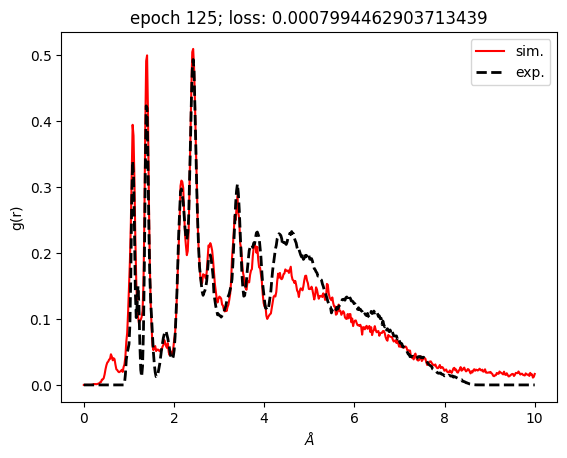
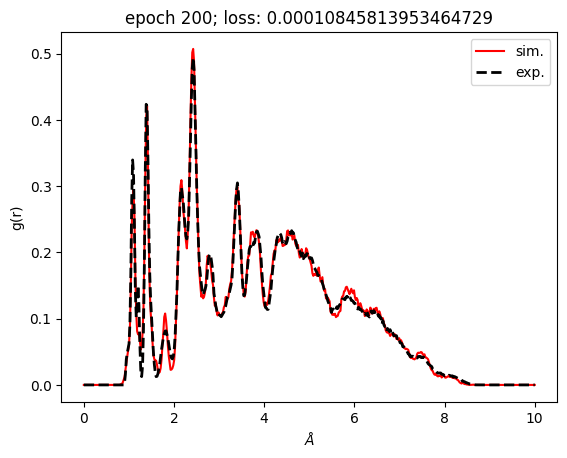
Fixed RDF, finished before editing and cleaning up

diff --git a/scripts/run_md17.py b/scripts/run_md17.py
@@ -37,7 +37,22 @@ def plot_rdfs(bins, target_g, simulated_g, fname, path, tau, rdf_title, loss=-1)
     plt.xlabel("$\AA$")
     plt.ylabel("g(r)")
     # plt.ylim(0 , .6)
-    plt.savefig(path + rdf_title, bbox_inches='tight')
+    plt.savefig(path + '/' + rdf_title, bbox_inches='tight')
+    plt.show()
+    plt.close()
+def plot_rdfs2(bins, target_g, simulated_g, imp_gt, imp_sim, fname, path, tau, rdf_title, loss=-1):
+    
+    # plt.plot(bins, simulated_g.detach().cpu().numpy(), c='red', label='sim.' )
+    # plt.plot(bins, target_g, linewidth=2,linestyle='--', c='black', label='exp.')
+    imp_loss = (imp_gt - imp_sim).pow(2).mean()
+    plt.plot(bins, imp_gt.detach().cpu().numpy(), label='imp gt')
+    plt.plot(bins, imp_sim.detach().cpu().numpy(), label= 'imp sim' )
+    plt.title(f'loss: {loss}, imp_loss: {imp_loss} ')
+    plt.legend()
+    plt.xlabel("$\AA$")
+    plt.ylabel("g(r)")
+    # plt.ylim(0 , .6)
+    plt.savefig(path + '/' + rdf_title, bbox_inches='tight')
     plt.show()
     plt.close()
 
@@ -60,6 +75,7 @@ def find_hr_from_file(molecule: str, size: str, n_bins, start, end):
     gt_traj = torch.FloatTensor(gt_data.f.R)
     gt_atomicnums = torch.FloatTensor(gt_data.f.z)
     hist_gt = get_hr(gt_traj, bins)
+    hist_gt = 100*hist_gt/ hist_gt.sum()
     return hist_gt
     # compute h(r) for simulated trajectory
 
@@ -67,6 +83,7 @@ def find_hr_from_file(molecule: str, size: str, n_bins, start, end):
 def load_schnet_model(path = None, ckpt_epoch = -1, num_interactions = None, device = "cpu", from_pretrained=True):
     
     cname = 'best_checkpoint.pt' if ckpt_epoch == -1 else f"checkpoint{ckpt_epoch}.pt"
+
     ckpt_and_config_path = os.path.join(path, "checkpoints", cname)
     schnet_config = torch.load(ckpt_and_config_path, map_location=torch.device("cpu"))["config"]
     if num_interactions: #manual override
@@ -127,7 +144,7 @@ def fit_rdf(suggestion_id, device, project_name):
     n_epochs = 1000  # number of epochs to train for
     cutoff = 15 # cutoff for interatomic distances (I don't think this is used)
     nbins = 500 # bins for the rdf histogram
-    tau = 100 # this is the number of timesteps, idk why it's called tau
+    tau = 300 # this is the number of timesteps, idk why it's called tau
     start = 1e-6 # start of rdf range
     end = 10 # end of rdf range
     lr_initial = .001 # learning rate passed to optim
@@ -141,7 +158,8 @@ def fit_rdf(suggestion_id, device, project_name):
     rdf_skip = 10
     checkpoint_epoch = 10
     # rdf_title = f'/replicas_ch{checkpoint_epoch}/rdf_plot_{num_replicas}replicas_{tau}t'
-    rdf_title = 'tester'
+    rdf_title = f'tester'
+    reset_each_epoch = True
 
 
     atoms_arr = [data_to_atoms(init_data) for init_data in init_data_arr]
@@ -219,12 +237,20 @@ def fit_rdf(suggestion_id, device, project_name):
 
     # Convert `g_obs` to a PyTorch tensor and move it to the same device as `g`
     g_obs_tensor = torch.from_numpy(g_obs).to(device)
+    implicit_gt_obs = torch.load('implicit_obs')
+    implicit_sim_obs = torch.load('implicit_sim')
+    print("DIFFERENCE:", (g_obs_tensor - implicit_gt_obs).pow(2).sum())
     
     print("Training for {} epochs".format(n_epochs))
     for i in range(0, n_epochs):
         current_time = datetime.now() 
-        
-        trajs = sim.simulate(steps=tau, frequency=int(tau), dt = dt)
+        if reset_each_epoch:
+            data = [train_dataset.__getitem__(i) for i in samples]
+            [system.set_positions(data[i].pos.cpu().detach().numpy()) for i,  system in enumerate(systems_arr)] 
+
+
+            
+        trajs = sim.simulate(steps=tau, frequency=int(tau), dt = dt, restart=reset_each_epoch, normal=True)
         # download_ovito(trajs, dt, bonds, atom_types_list, typeid, ovito_config)
         # ovito_config.close()
         v_t, q_t, pv_t = trajs
@@ -237,16 +263,18 @@ def fit_rdf(suggestion_id, device, project_name):
         # Now, let's average over all the rows for g (in the 99 dimension)
         g = q_t_obs.mean(dim=0)
 
-        g = g * .5
+
         loss = (g - g_obs_tensor).pow(2).mean()
         print("LOSS: ", loss.item())
         if  i % 25 == 0:
-           plot_rdfs(xnew, g_obs, g, i, model_path, tau, rdf_title, loss=loss.item())
+        #    plot_rdfs(xnew, g_obs, g, i, model_path, tau, rdf_title, loss=loss.item())
+           plot_rdfs2(xnew, g_obs, g, implicit_gt_obs, implicit_sim_obs, i, model_path, tau, rdf_title, loss=loss.item())
 
         # Calculate the loss
         
-    
-        loss.backward()
+        pdb.set_trace()
+        results = loss.backward()
+        
         duration = (datetime.now() - current_time)
         
         optimizer.step()
@@ -322,4 +350,4 @@ def download_ovito(trajs, dt, bonds, atom_types_list, typeid, ovito_config):
             ovito_config.append(s)
 
 
-fit_rdf("123", "cuda", "test_proj")
+fit_rdf("fix_rdf_10", "cuda", "adj_vs_implicit")

diff --git a/torchmd/sovlers.py b/torchmd/sovlers.py
@@ -5,6 +5,7 @@ from torchmd.tinydiffeq import RK4, FixedGridODESolver
 import torch 
 from torch import nn
 from tqdm import tqdm
+import matplotlib.pyplot as plt
 
 '''
     I need to think how to write generatic verlet update for both forward and adjoint integration 
@@ -262,7 +263,6 @@ class OdeintAdjointMethod(torch.autograd.Function):
         #adj_y  - adjoint sensitivities (dL/dy_t) - total derivatives
         #adj_params - (dL/dtheta)
         #grad_output - (partial L / partial y_t) - intermediate loss dependencies (not taking into account effect on future timesteps)
-        # pdb.set_trace()
         # TODO: use a nn.Module and call odeint_adjoint to implement higher order derivatives.
         def augmented_dynamics(t, y_aug):
             # Dynamics of the original system augmented with
@@ -306,6 +306,9 @@ class OdeintAdjointMethod(torch.autograd.Function):
             #initial adjoint time is 0
             adj_time = torch.tensor(0.).to(t)
             time_vjps = []
+            adj_p_norms = []
+            adj_q_norms = []
+            adj_z_norms = []
             for i in tqdm(range(T - 1, 0, -1), desc="backwards"):
 
                 #get state at time i
@@ -351,13 +354,67 @@ class OdeintAdjointMethod(torch.autograd.Function):
                 #adjust the adjoint in the direction of partial L/partial z_{i-1}
                 adj_y = tuple(adj_y_ + grad_output_[i - 1] for adj_y_, grad_output_ in zip(adj_y, grad_output))
 
+
+                adj_p_norms.append(adj_y[0].norm(dim=(-2,-1)).cpu().detach().numpy())
+                adj_q_norms.append(adj_y[1].norm(dim=(-2,-1)).cpu().detach().numpy())
+                adj_z_norms.append(torch.abs(adj_y[2]).cpu().detach().numpy() )
                 del aug_y0, aug_ans
             time_vjps.append(adj_time)
             time_vjps = torch.cat(time_vjps[::-1])
             #return gradients for all arguments:
             #y0, func, t, flat_params, rtol, atol, method, options
-            pdb.set_trace()
             
+            # Plot the reversed array
+
+            # Assume that adj_p_norms, adj_q_norms, and adj_z_norms are defined elsewhere
+            # Example:
+            # adj_p_norms = [np.random.rand(10) for _ in range(99)]
+
+            # Create a figure and 3 subplots
+            fig, axs = plt.subplots(3, 1, figsize=(10, 15))
+
+            # Iterate through all the replicas and plot them
+            for replica in range(len(adj_p_norms[0])):
+                # Extract the values for the specific replica across all timesteps
+                p_values = [timestep[replica] for timestep in adj_p_norms]
+                q_values = [timestep[replica] for timestep in adj_q_norms]
+                z_values = [timestep[replica] for timestep in adj_z_norms]
+                
+                # Plot these values against the timestep
+                axs[0].plot(p_values, label=f'Replica {replica}')
+                axs[1].plot(q_values, label=f'Replica {replica}')
+                axs[2].plot(z_values, label=f'Replica {replica}')
+
+            # Adding labels
+            axs[0].set_title('P Norms')
+            axs[0].set_xlabel('Timestep')
+            axs[0].set_ylabel('Norm')
+            axs[0].set_yscale('log')
+
+            axs[1].set_title('Q Norms')
+            axs[1].set_xlabel('Timestep')
+            axs[1].set_ylabel('Norm')
+            axs[1].set_yscale('log')
+
+            axs[2].set_title('Z Norms')
+            axs[2].set_xlabel('Timestep')
+            axs[2].set_ylabel('Norm')
+            axs[2].set_yscale('log')
+
+            # Optionally add a legend
+            # axs[0].legend()
+            # axs[1].legend()
+            # axs[2].legend()
+
+            # Adjust the layout
+            plt.tight_layout()
+
+            # Save to file
+            plt.savefig('adjoints.png')
+            plt.close()
+
+
+            # Save the plot as "adjoints.png" in the current working directory
             return (*adj_y, None, time_vjps, adj_params, None, None, None, None, None)
 
 

diff --git a/torchmd/md.py b/torchmd/md.py
@@ -73,10 +73,10 @@ class Simulations():
         else:
             raise ValueError("No log available")
         
-    def simulate(self, steps=1, dt=1.0 * units.fs, frequency=1):
+    def simulate(self, steps=1, dt=1.0 * units.fs, frequency=1, restart=False, normal=False):
         # steps is the number of timesteps, frequency is related to how much you log
-        if self.log['positions'] == []:
-            states = self.integrator.get_inital_states(self.wrap)
+        if self.log['positions'] == [] or restart:
+            states = self.integrator.get_inital_states(self.wrap, normal=normal)
         else:
             states = self.get_check_point()
 
@@ -312,12 +312,14 @@ class NoseHoover(torch.nn.Module):
 
         return (accel, v,  (1/self.Q * (sys_ke - self.targetEkin)))
 
-    def get_inital_states(self, wrap=True):
+    def get_inital_states(self, wrap=True, normal=False):
         states = [
                 [system.get_velocities() for system in self.systems_arr], 
                 [system.get_positions() for system in self.systems_arr], 
                 [0.0 for i in range(len(self.systems_arr))]]
         states = [torch.Tensor(var).to(self.device) for var in states]
+        if normal:
+            states[1] = states[1] + torch.normal(torch.zeros_like(states[0]), .05)
         return states
         
 
